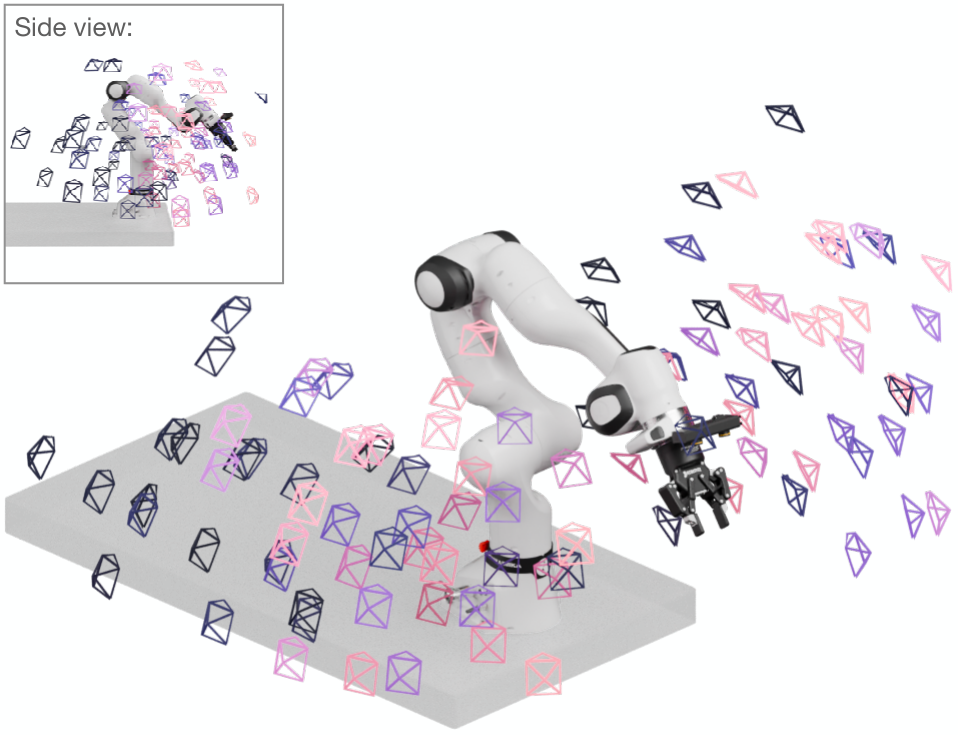
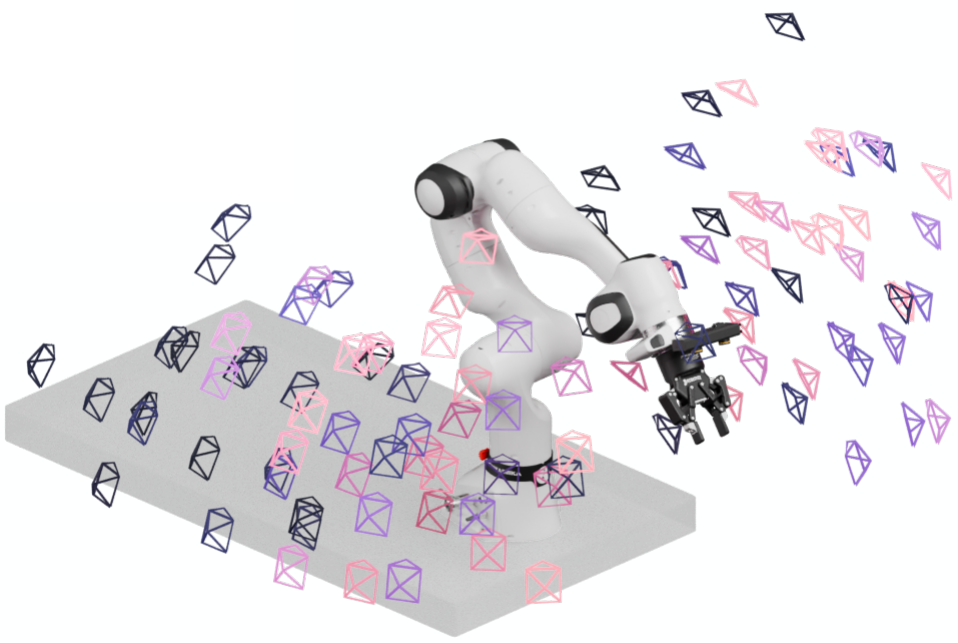
Erase Side view inset + trim top whitespace from DROID figure, add bold claim under Results

diff --git a/index.html b/index.html
@@ -318,7 +318,7 @@
   <h2 class="sec-label">Motivation</h2>
   <div class="sec-claim">Large-Scale Robot Data Spans Many Camera Viewpoints,<br>but Actions Are Defined in the Robot Frame</div>
   <figure style="margin: 24px 0 0;">
-    <img src="static/images/droid_viewpoints.png" alt="Third-person camera viewpoint distribution around a Franka robot in DROID." style="max-width: 680px; width: 100%;">
+    <img src="static/images/droid_viewpoints.png?v=3" alt="Third-person camera viewpoint distribution around a Franka robot in DROID." style="max-width: 680px; width: 100%;">
     <figcaption style="text-align: center;">
       Third-person camera viewpoints in DROID (subsampled); brighter colors indicate regions of
       higher viewpoint density. Figure from <a href="https://droid-dataset.github.io/" target="_blank" rel="noopener">DROID</a>.
@@ -399,6 +399,7 @@
 <!-- =============================== PAYOFF (mirrors the intro study) =============================== -->
 <section class="container" id="payoff">
   <h2 class="sec-label">Results</h2>
+  <div class="sec-claim">Pointmaps Remain Stable as Training-Time Viewpoint Variation Increases</div>
   <p class="body-text">
     Adding pointmaps to the same controlled study changes the trend: RGB + Pointmap drops by
     only 1.8 points, compared with 9.6 points for RGB-only.